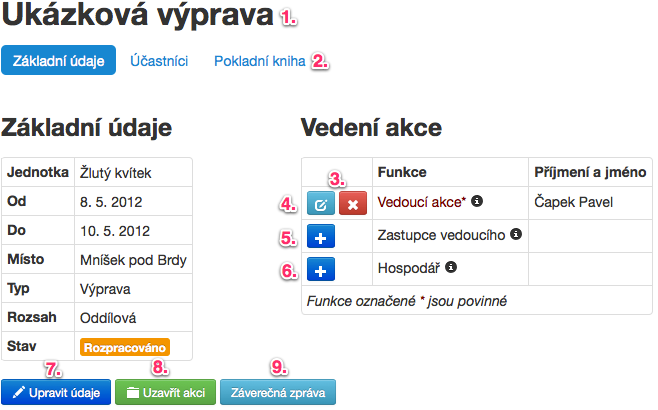
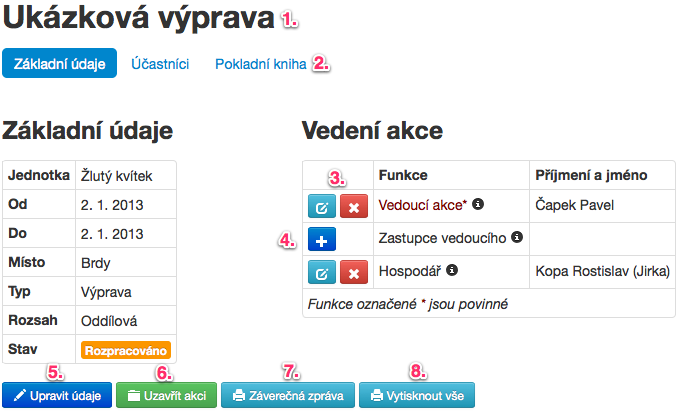
predeleni navodu na obecnou akci (nove funkce a tlacitka)

diff --git a/app/model/Chit/ChitService.php b/app/model/Chit/ChitService.php
@@ -216,7 +216,7 @@ class ChitService extends MutableBaseService {
         $cacheId = __FUNCTION__;
         if (!($res = $this->load($cacheId))) {
             foreach ($this->table->getCategoriesAll("in") as $c) {
-                if ($c->short == "pp") {
+                if ($c->short == "hpd") {
                     $res = $c->id;
                     break;
                 }

diff --git a/index.php b/index.php
@@ -11,7 +11,7 @@ define('LIBS_DIR', WWW_DIR . '/libs');
 
 define('TEMP_DIR', APP_DIR . '/temp');
 
-ini_set('memory_limit', '64M');
+ini_set('memory_limit', '80M');
 
 // load bootstrap file
 require APP_DIR . '/bootstrap.php';
